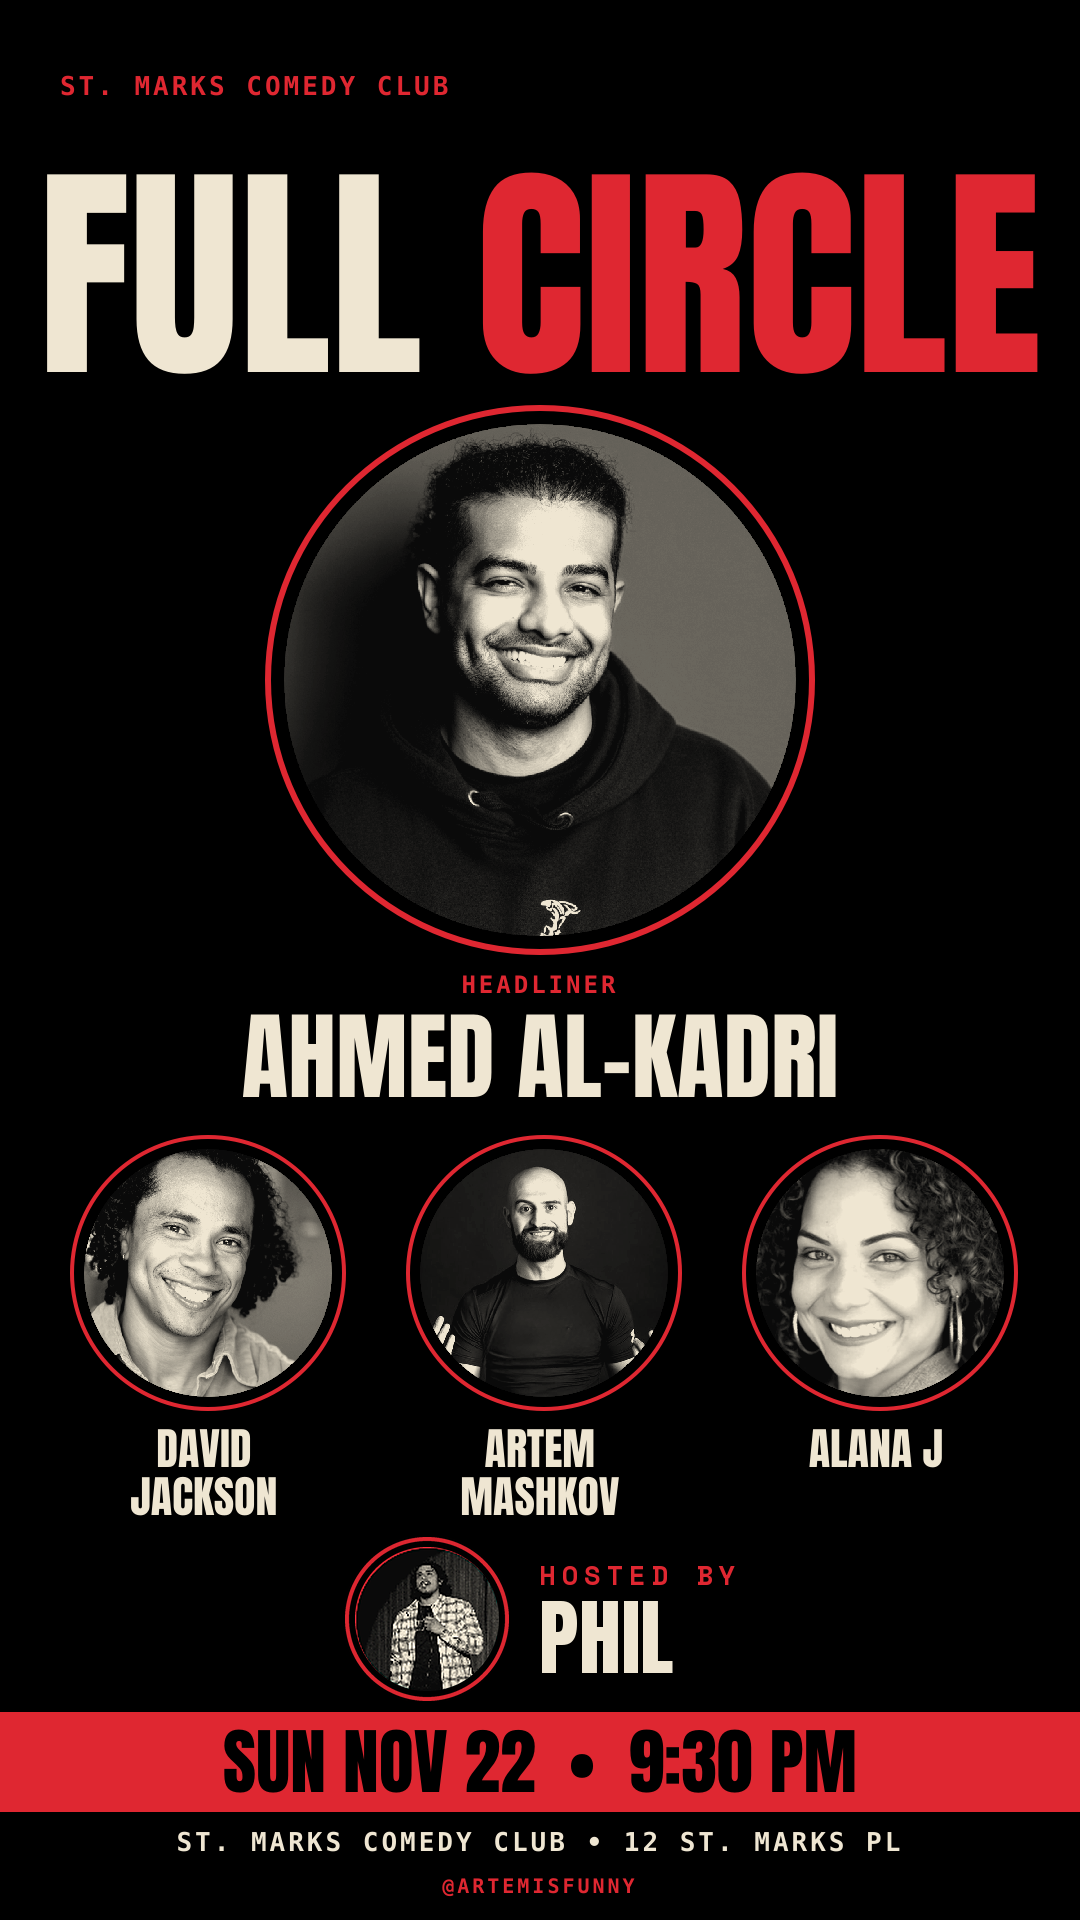
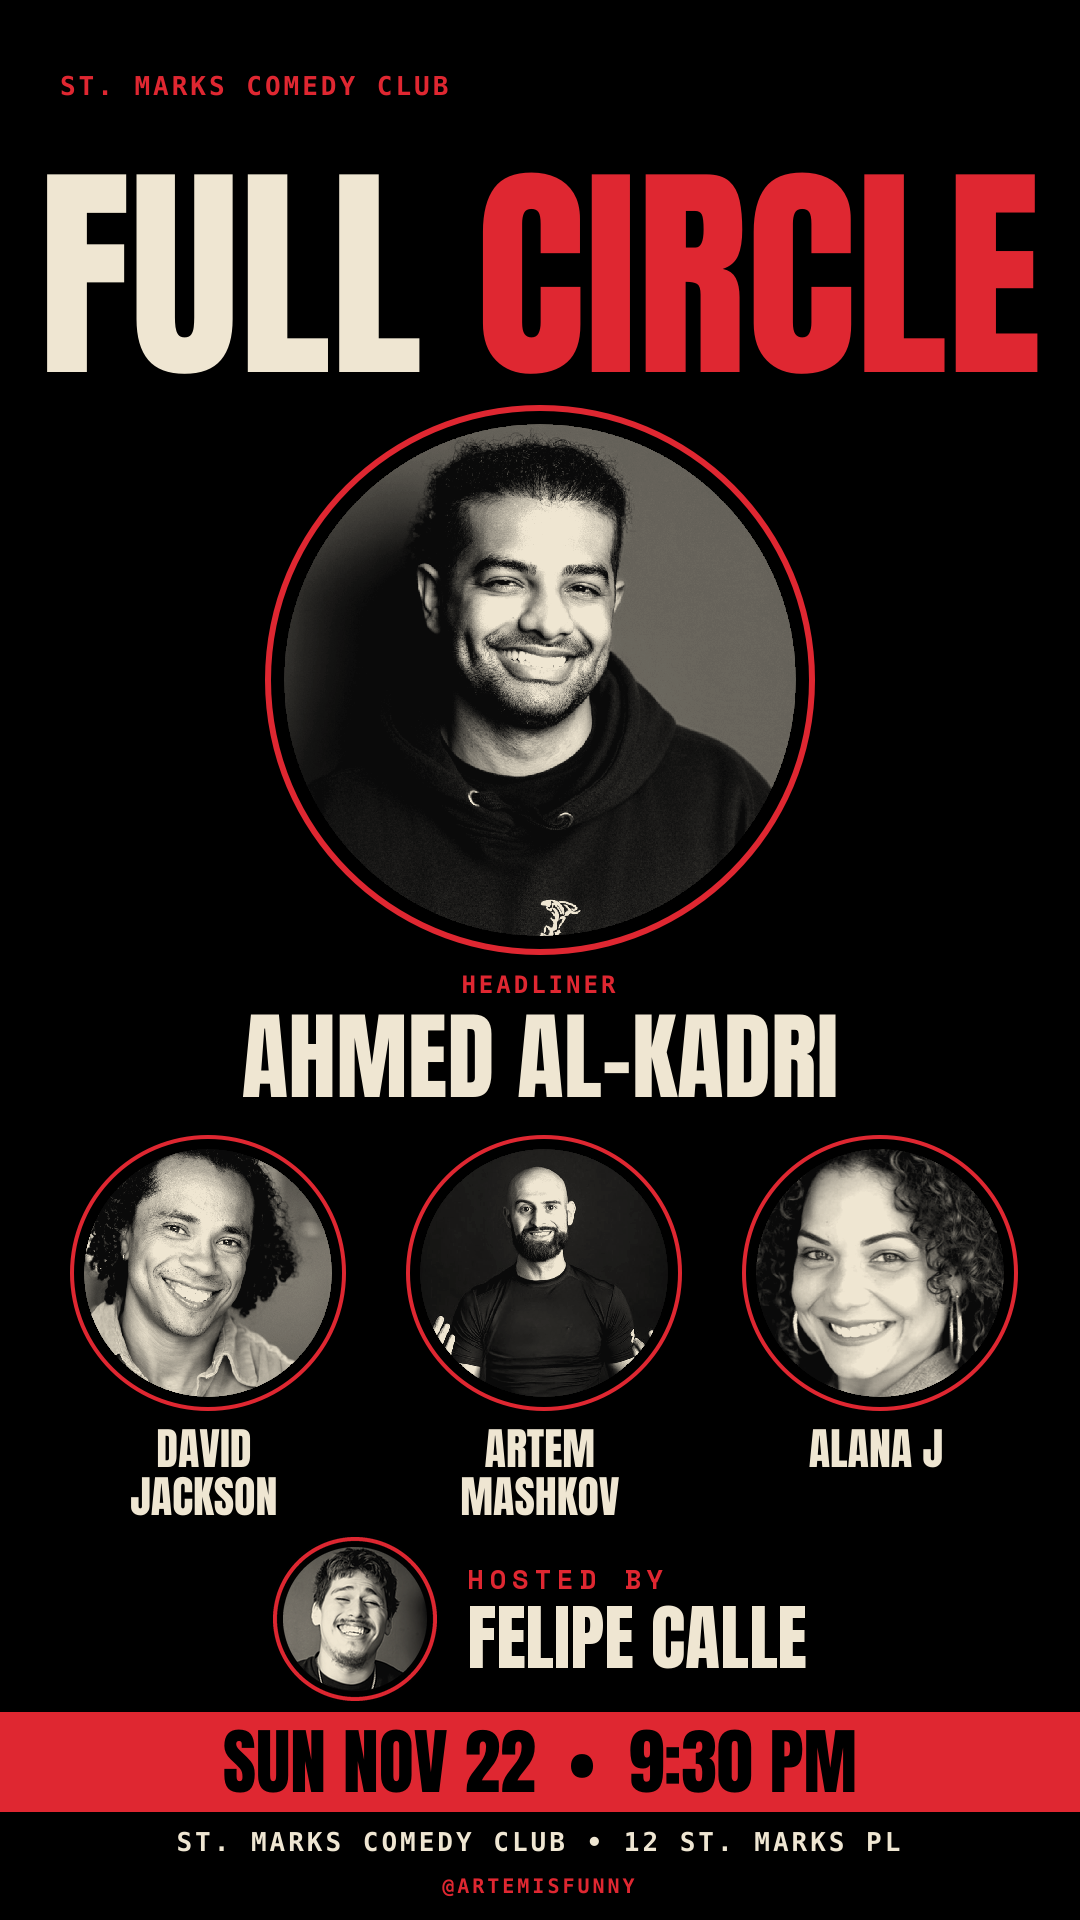
Full Circle 11/22: host is Felipe Calle, new face-cropped B&W photo
Claude-Session: https://claude.ai/code/session_01EF93tgT7M8KWF5WEFk4Xci

Changed region(s): [[0.2444, 0.7812, 0.7639, 0.9062]]

diff --git a/full-circle-nov-22/bigger_host.py b/full-circle-nov-22/bigger_host.py
@@ -1,6 +1,6 @@
-# Enlarges the host credit (Phil) on the Full Circle 11/22 story. Fonts: @fontsource anton + space-mono woff in fonts/.
+# Host credit for Full Circle 11/22: Felipe Calle, bigger photo + name. Fonts: @fontsource anton + space-mono woff in fonts/.
 from PIL import Image, ImageDraw, ImageFont, ImageFilter
-SRC='full-circle-nov-22/original_story.png'  # flyer as received; no layered source exists
+SRC='full-circle-nov-22/original_story.png'
 im=Image.open(SRC).convert('RGB'); W,H=im.size
 RED=(223,39,49); CREAM=(239,230,210); BLACK=(0,0,0)
 UP=30; DOWN=12
@@ -9,11 +9,20 @@ out.paste(im.crop((0,0,W,400)),(0,0))                 # label + title untouched
 out.paste(im.crop((0,420,W,1556)),(0,420-UP))          # headliner + 3 comics, nudged up
 out.paste(im.crop((0,1698,W,H-DOWN)),(0,1698+DOWN))    # date bar + footer, nudged down
 bar_top=1700+DOWN
-# Phil photo from the original small circle (center 387.5,1625.5, photo r=55)
-cx,cy,r0=387.5,1625.5,55
-ph=im.crop((int(cx-r0),int(cy-r0),int(cx+r0),int(cy+r0)))
+# Host photo: Felipe Calle headshot, face crop, warm B&W to match the other circles
+from PIL import ImageOps
+import numpy as np
+src=Image.open('full-circle-nov-22/felipe_calle_source.jpeg').convert('RGB')
+CX,CY,SZ=1060,640,860
+ph=src.crop((CX-SZ//2,CY-SZ//2,CX+SZ//2,CY+SZ//2))
+a=np.asarray(ph).astype(float)
+lum=0.6*a[...,0]+0.35*a[...,1]+0.05*a[...,2]   # red-weighted so the blue wall goes dark grey
+lum=np.clip((lum-20)/(235-20),0,1)**1.05
+lo=np.array([10,10,10]);hi=np.array([239,230,210])
+duo=(lo+(hi-lo)*lum[...,None]).astype('uint8')
+ph=Image.fromarray(duo)
 R=82; RING=4; GAP=6; rp=R-RING-GAP
-ph=ph.resize((2*rp,2*rp),Image.LANCZOS).filter(ImageFilter.UnsharpMask(1.2,60,2))
+ph=ph.resize((2*rp,2*rp),Image.LANCZOS).filter(ImageFilter.UnsharpMask(1,40,2))
 S=4
 mask=Image.new('L',(2*rp*S,2*rp*S),0); ImageDraw.Draw(mask).ellipse((0,0,2*rp*S-1,2*rp*S-1),255)
 mask=mask.resize((2*rp,2*rp),Image.LANCZOS)
@@ -23,7 +32,8 @@ ring=ring.resize((2*R,2*R),Image.LANCZOS)
 # text
 F='fonts/'
 mono=ImageFont.truetype(F+'fontsource-space-mono-5.3.0/files/space-mono-latin-700-normal.woff',27)
-anton=ImageFont.truetype(F+'fontsource-anton-5.3.0/files/anton-latin-400-normal.woff',84)
+NAME='FELIPE CALLE'
+anton=ImageFont.truetype(F+'fontsource-anton-5.3.0/files/anton-latin-400-normal.woff',72)
 def spaced(draw,xy,text,font,fill,track):
     x,y=xy
     for ch in text:
@@ -32,7 +42,7 @@ def spaced(draw,xy,text,font,fill,track):
 tmp=ImageDraw.Draw(Image.new('RGB',(10,10)))
 track=6
 hb_w=sum(tmp.textlength(c,font=mono) for c in 'HOSTED BY')+track*8
-ph_bb=tmp.textbbox((0,0),'PHIL',font=anton); ph_w=ph_bb[2]-ph_bb[0]
+ph_bb=tmp.textbbox((0,0),NAME,font=anton); ph_w=ph_bb[2]-ph_bb[0]
 text_w=max(hb_w,ph_w); GAPX=30
 group=2*R+GAPX+text_w
 x0=int(round((W-group)/2))
@@ -47,6 +57,6 @@ ph_h=ph_bb[3]-ph_bb[1]; LG=16
 block_h=hb_h+LG+ph_h; ty=cyN-block_h//2
 tx=x0+2*R+GAPX
 spaced(d,(tx,ty-hb_bb[1]),'HOSTED BY',mono,RED,track)
-d.text((tx-ph_bb[0],ty+hb_h+LG-ph_bb[1]),'PHIL',font=anton,fill=CREAM)
+d.text((tx-ph_bb[0],ty+hb_h+LG-ph_bb[1]),NAME,font=anton,fill=CREAM)
 out.save('full-circle-nov-22/full_circle_story_1080x1920.png')
 print('circle',top,top+2*R,'bar',bar_top,'group x',x0,x0+group,'names end',1545-UP)
